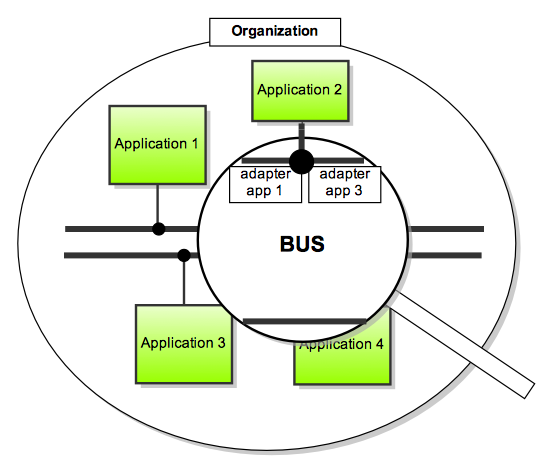
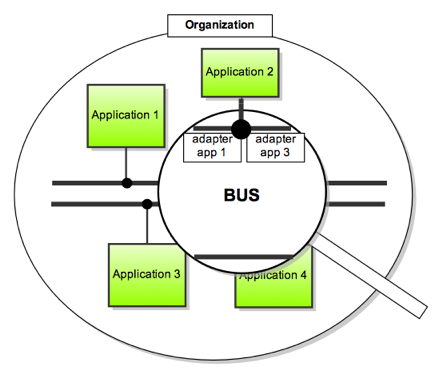
cosmetic fixes

diff --git a/build/presentation.html b/build/presentation.html
@@ -6,7 +6,7 @@
     <title>Architectures for Distributed Applications</title>
     <meta http-equiv="Content-Type" content="text/html; charset=utf-8" />
     <meta name="copyright" content="Copyright &#169; 2010 INRIA - Rennes Bretagne Atlantique" />
-    <meta name="font-size-adjustment" content="0" />
+    <meta name="font-size-adjustment" content="+1" />
     <link rel="stylesheet" href="assets/stylesheets/slidy.css" type="text/css" media="screen, projection, print" />
     <link rel="stylesheet" href="assets/stylesheets/custom.css" type="text/css" media="screen, projection, print" />
     <link rel="stylesheet" href="assets/stylesheets/shCore.css" type="text/css" media="screen, projection, print" />
@@ -33,7 +33,7 @@
 
 <p class='subhead'>Styles, Technologies and Applications</p>
 
-<p>Cyril Rohr (IRISA - Equipe Myriads)<br />Feb 4, 2010</p></div>
+<p>Cyril Rohr (IRISA - Equipe Myriads)<br />Feb 11, 2010</p></div>
 <div class="slide title"><h1 id='agenda'>Agenda</h1>
 
 <ol class='incremental'>
@@ -68,24 +68,24 @@
 
 <li>duplication, high maintenance cost, no data sharing</li>
 </ul></div>
-<div class="slide center title"><h1 id='2_evolution_towards_distributed_applications'>2. Evolution towards Distributed Applications</h1>
+<div class="slide center"><h1 id='2_evolution_towards_distributed_applications'>2. Evolution towards Distributed Applications</h1>
 
 <ul class='incremental'>
 <li><strong>Applications sharing data</strong><br /><img src='images/applications-sharing-data.png' style='margin: 5px' /></li>
 
 <li>fragile, duplication</li>
 </ul></div>
-<div class="slide center title"><h1 id='2_evolution_towards_distributed_applications'>2. Evolution towards Distributed Applications</h1>
+<div class="slide center"><h1 id='2_evolution_towards_distributed_applications'>2. Evolution towards Distributed Applications</h1>
 
 <ul class='incremental'>
-<li><strong>Applications sharing objects over the network</strong> <br /><div class='incremental' style='clear: both'>
+<li><strong>Applications sharing objects over the network</strong> <br /><div class='incremental center' style='clear: both; margin: auto;'>
   <img src='images/applications-bus.png' style='float:left' />
   <img src='images/applications-bus-enlarged.png' style='float:left' />
 </div> <br /><div style='clear: both' /></li>
 
 <li>complex, vendor lock in, tight coupling</li>
 </ul></div>
-<div class="slide center title"><h1 id='2_evolution_towards_distributed_applications'>2. Evolution towards Distributed Applications</h1>
+<div class="slide center"><h1 id='2_evolution_towards_distributed_applications'>2. Evolution towards Distributed Applications</h1>
 
 <ul class='incremental'>
 <li><strong>Service Oriented Architectures</strong> <br /><img src='images/soa.png' /></li>
@@ -227,7 +227,7 @@
 </ul></div>
 <div class="slide incremental"><h1 id='5b_message_oriented_architecture__drawbacks'>5B. Message Oriented Architecture - drawbacks</h1>
 
-<p>Complex, ever-changing specification <br /><img src='images/ws-graph.png' height='335' width='500' style='margin: 5px' /> <br />WS-Security, WS-Policy, WS-SecurityPolicy, WS-PolicyAssertions, WS-PolicyAttachment, WS-Trust, WS-Privacy, WS-Routing, WS-Referral, WS-Coordination, WS-Transaction, WS-SecureConversation, WS-Federation, WS-Authorization, WS-Attachments, WS-Transfer, WS-ResourceTransfer, WS-ReliableMessaging, WS-Addressing, &#8230;</p></div>
+<p>Complex, ever-changing specification <br /><img src='images/ws-graph.png' style='margin: 5px' /> <br />WS-Security, WS-Policy, WS-SecurityPolicy, WS-PolicyAssertions, WS-PolicyAttachment, WS-Trust, WS-Privacy, WS-Routing, WS-Referral, WS-Coordination, WS-Transaction, WS-SecureConversation, WS-Federation, WS-Authorization, WS-Attachments, WS-Transfer, WS-ResourceTransfer, WS-ReliableMessaging, WS-Addressing, &#8230;</p></div>
 <div class="slide incremental"><h1 id='5b_message_oriented_architecture__drawbacks'>5B. Message Oriented Architecture - drawbacks</h1>
 
 <ul class='incremental'>
@@ -235,7 +235,7 @@
 
 <li>Poor interoperability between vendor implementations, leading to vendor lock-in</li>
 
-<li>Most often, developers use early binding =&gt; stubs, proxy objects =&gt; tight-coupling <img src='images/soap.png' height='70%' style='float: right;' width='70%' /></li>
+<li>Most often, developers use early binding =&gt; stubs, proxy objects =&gt; tight-coupling <img src='images/soap.png' style='float: right;' /></li>
 
 <li>Poor scalability: requires processing power to decode SOAP messages, difficult to load-balance or route requests based on the service endpoint (URI)</li>
 
@@ -456,7 +456,7 @@
 </ul>
 </li>
 </ul></div>
-<div class="slide title"><h1 id='5c_restful_services__client_side_code'>5C. <strong>RESTful</strong> Services - Client Side Code</h1>
+<div class="slide"><h1 id='5c_restful_services__client_side_code'>5C. <strong>RESTful</strong> Services - Client Side Code</h1>
 
 <ul>
 <li>
@@ -540,7 +540,7 @@
   }</pre>
 </li>
 </ul></div>
-<div class="slide title"><h1 id='5c_restful_services__server_side_code'>5C. <strong>RESTful</strong> Services - Server Side Code</h1>
+<div class="slide"><h1 id='5c_restful_services__server_side_code'>5C. <strong>RESTful</strong> Services - Server Side Code</h1>
 
 <pre class='brush: ruby'>require &#39;rubygems&#39;
 require &#39;sinatra/base&#39;  # gem install sinatra
@@ -558,10 +558,10 @@ class API &lt; Sinatra::Base
   delete      &#39;/URI&#39;   { do_something }
   
 end
-API.run! :host =&gt; &quot;localhost&quot;, :port =&gt; 4567</pre>
-
-<p>See http://github.com/crohr/rest-presentation/app for a complete application.</p></div>
+API.run! :host =&gt; &quot;localhost&quot;, :port =&gt; 4567</pre></div>
 <div class="slide incremental"><h1 id='5c_restful_services__hal'>5C. <strong>RESTful</strong> Services - HAL</h1>
+
+<p>Library of scientific publications.</p>
 
 <h2 id='specification'>Specification</h2>
 
@@ -569,32 +569,49 @@ API.run! :host =&gt; &quot;localhost&quot;, :port =&gt; 4567</pre>
 <li>
 <p>authors</p>
 
-<pre>  GET     /authors?affiliations=x,y,z  fetch the list of authors,              json         200,304,406,500
-                                       optionally filtered by affiliations     
-  POST    /authors                     create a new author                     json         201,400,406,415,500
-  DELETE  /authors/:author_id          delete the author                                    204,500
-  PUT     /authors/:author_id          update an author                        json         200,400,406,415,500</pre>
+<pre>  METHOD  URI,MEDIA-TYPES,CODES        DESCRIPTION               
+  GET     /authors?affiliations=x,y,z  fetch the list of authors,              
+          json                            optionally filtered by affiliations     
+          200,304,406,500                                       
+  POST    /authors                     create a new author                              
+          json
+          201,400,406,415,500  
+  DELETE  /authors/:author_id          delete the author                                    
+          204,500
+  PUT     /authors/:author_id          update an author                        
+          json         
+          200,400,406,415,500</pre>
 </li>
 
 <li>
 <p>papers</p>
 
-<pre>  GET     /papers?tags=x,y,z           fetch the list of papers,               json         200,304,406,500
-                                       optionally filtered by tags
-  POST    /papers                      create a new paper                      json         201,400,406,415,500
-  DELETE  /papers/:paper_id            delete the paper                                     204,500
-  PUT     /papers/:paper_id            update a paper. deal with conflicts.    json,text,   200,400,406,415,500
-                                                                               html,pdf,
-                                                                               latex</pre>
+<pre>  GET     /papers?tags=x,y,z           fetch the list of papers,               
+          json                            optionally filtered by tags
+          200,304,406,500
+  POST    /papers                      create a new paper                      
+          json         
+          201,400,406,415,500
+  DELETE  /papers/:paper_id            delete the paper                                     
+          204,500
+  PUT     /papers/:paper_id            update a paper. deal with conflicts.    
+          json,text,html,pdf,latex   
+          200,400,406,415,500</pre>
 </li>
 
 <li>
 <p>convenience collections</p>
 
-<pre>  GET     /authors/:author_id/papers   fetch the papers of a specific author   json
-  GET     /papers/:paper_id/authors    fetch the authors of a specific paper   json</pre>
+<pre>  GET     /authors/:author_id/papers   fetch the papers of a specific author   
+          json
+  GET     /papers/:paper_id/authors    fetch the authors of a specific paper   
+          json</pre>
 </li>
-</ul></div>
+</ul>
+
+<h2 id='implementation'>Implementation</h2>
+
+<p>See <a href='http://github.com/crohr/rest-presentation/tree/master/app/'>http://github.com/crohr/rest-presentation/tree/master/app</a> for the implementation.</p></div>
 <div class="slide incremental"><h1 id='6_restful_services__realworld_examples__grid5000'>6. <strong>RESTful</strong> Services - Real-World examples - Grid5000</h1>
 <img src='images/grid5000.png' height='80%' style='float:left' width='70%' /></div>
 <div class="slide incremental"><h1 id='6_restful_services__realworld_examples__in_the_wild'>6. <strong>RESTful</strong> Services - Real-World examples - In the wild</h1>

diff --git a/assets/stylesheets/slidy.css b/assets/stylesheets/slidy.css
@@ -77,7 +77,7 @@ div.slide + div[class].slide { page-break-before: always;}
 
 div.slide h1 {
   display: block; 
-  font-size: 160%;
+  font-size: 140%;
   line-height: 1.2em;
   background: transparent;
   min-height: 2.0em;
@@ -199,7 +199,7 @@ p,pre,ul,ol,blockquote,h2,h3,h4,h5,h6,dl,table {
   margin-right: 1em;
 }
 
-p.subhead { font-weight: bold; margin-top: 2em; font-size: 2em; line-height: 2em; }
+p.subhead { font-weight: bold; margin-top: 2em; margin-bottom: 1em; font-size: 1.5em; line-height: 2em; }
 
 .smaller { font-size: smaller }
 .bigger { font-size: 130% }

diff --git a/build/assets/stylesheets/slidy.css b/build/assets/stylesheets/slidy.css
@@ -77,7 +77,7 @@ div.slide + div[class].slide { page-break-before: always;}
 
 div.slide h1 {
   display: block; 
-  font-size: 160%;
+  font-size: 140%;
   line-height: 1.2em;
   background: transparent;
   min-height: 2.0em;
@@ -199,7 +199,7 @@ p,pre,ul,ol,blockquote,h2,h3,h4,h5,h6,dl,table {
   margin-right: 1em;
 }
 
-p.subhead { font-weight: bold; margin-top: 2em; font-size: 2em; line-height: 2em; }
+p.subhead { font-weight: bold; margin-top: 2em; margin-bottom: 1em; font-size: 1.5em; line-height: 2em; }
 
 .smaller { font-size: smaller }
 .bigger { font-size: 130% }

diff --git a/slides/presentation.md b/slides/presentation.md
@@ -6,7 +6,7 @@ Styles, Technologies and Applications
 {:class="subhead"}
 
 Cyril Rohr (IRISA - Equipe Myriads)  
-Feb 4, 2010
+Feb 11, 2010
 
 <!-- slide title -->
 # Agenda
@@ -43,17 +43,17 @@ Integration across organizational boundaries
 * duplication, high maintenance cost, no data sharing  
 {:class="incremental"}
 
-<!-- slide center title -->
+<!-- slide center -->
 # 2. Evolution towards Distributed Applications
 * **Applications sharing data**  
   <img src="images/applications-sharing-data.png" style="margin: 5px" />    
 * fragile, duplication   
 {:class="incremental"}
 
-<!-- slide center title -->
+<!-- slide center -->
 # 2. Evolution towards Distributed Applications
 * **Applications sharing objects over the network**   
-  <div class="incremental" style="clear: both">
+  <div class="incremental center" style="clear: both; margin: auto;">
     <img src="images/applications-bus.png" style="float:left" />
     <img src="images/applications-bus-enlarged.png" style="float:left" />
   </div>    
@@ -61,7 +61,7 @@ Integration across organizational boundaries
 * complex, vendor lock in, tight coupling 
 {:class="incremental"}
 
-<!-- slide center title -->
+<!-- slide center -->
 # 2. Evolution towards Distributed Applications
 * **Service Oriented Architectures**    
   <img src="images/soa.png" />   
@@ -187,7 +187,7 @@ Java method:
 <!-- slide incremental -->
 # 5B. Message Oriented Architecture - drawbacks
 Complex, ever-changing specification    
-<img src="images/ws-graph.png" width="500" height="335" style="margin: 5px" />    
+<img src="images/ws-graph.png" style="margin: 5px" />    
 WS-Security, WS-Policy, WS-SecurityPolicy, WS-PolicyAssertions, WS-PolicyAttachment, WS-Trust, WS-Privacy, WS-Routing, WS-Referral, WS-Coordination, WS-Transaction, WS-SecureConversation, WS-Federation, WS-Authorization, WS-Attachments, WS-Transfer, WS-ResourceTransfer, WS-ReliableMessaging, WS-Addressing, ...
 
 <!-- slide incremental -->
@@ -195,7 +195,7 @@ WS-Security, WS-Policy, WS-SecurityPolicy, WS-PolicyAssertions, WS-PolicyAttachm
 * Specification written and pushed by big vendors (IBM, Microsoft, HP, Intel, SAP, Sun, etc.)
 * Poor interoperability between vendor implementations, leading to vendor lock-in
 * Most often, developers use early binding => stubs, proxy objects => tight-coupling
-  <img src="images/soap.png" style="float: right;" height="70%" width="70%" />
+  <img src="images/soap.png" style="float: right;" />
 * Poor scalability: requires processing power to decode SOAP messages, difficult to load-balance or route requests based on the service endpoint (URI)
 * UDDI is a failure
 * Does not use HTTP as an application protocol, only as a transport protocol.
@@ -344,7 +344,7 @@ All resources share the same interface for transfering state between the client 
   {:class="incremental"}
 {:class="incremental"}
 
-<!-- slide title -->
+<!-- slide -->
 # 5C. **RESTful** Services - Client Side Code
 
 * Ruby
@@ -422,7 +422,7 @@ All resources share the same interface for transfering state between the client 
         }
     {:class="brush: js; collapse: false; highlight: [1,3,4,5,6,7,8,9,10,11,17,42]"}
 
-<!-- slide title -->
+<!-- slide -->
 # 5C. **RESTful** Services - Server Side Code
 
     require 'rubygems'
@@ -444,33 +444,50 @@ All resources share the same interface for transfering state between the client 
     API.run! :host => "localhost", :port => 4567
   {:class="brush: ruby"}
 
-See http://github.com/crohr/rest-presentation/app for a complete application.
-
 
 <!-- slide incremental -->
 # 5C. **RESTful** Services - HAL
+Library of scientific publications.
+
 ## Specification
 * authors
 
-        GET     /authors?affiliations=x,y,z  fetch the list of authors,              json         200,304,406,500
-                                             optionally filtered by affiliations     
-        POST    /authors                     create a new author                     json         201,400,406,415,500
-        DELETE  /authors/:author_id          delete the author                                    204,500
-        PUT     /authors/:author_id          update an author                        json         200,400,406,415,500
+        METHOD  URI,MEDIA-TYPES,CODES        DESCRIPTION               
+        GET     /authors?affiliations=x,y,z  fetch the list of authors,              
+                json                            optionally filtered by affiliations     
+                200,304,406,500                                       
+        POST    /authors                     create a new author                              
+                json
+                201,400,406,415,500  
+        DELETE  /authors/:author_id          delete the author                                    
+                204,500
+        PUT     /authors/:author_id          update an author                        
+                json         
+                200,400,406,415,500
 * papers                                     
                                              
-        GET     /papers?tags=x,y,z           fetch the list of papers,               json         200,304,406,500
-                                             optionally filtered by tags
-        POST    /papers                      create a new paper                      json         201,400,406,415,500
-        DELETE  /papers/:paper_id            delete the paper                                     204,500
-        PUT     /papers/:paper_id            update a paper. deal with conflicts.    json,text,   200,400,406,415,500
-                                                                                     html,pdf,
-                                                                                     latex
+        GET     /papers?tags=x,y,z           fetch the list of papers,               
+                json                            optionally filtered by tags
+                200,304,406,500
+        POST    /papers                      create a new paper                      
+                json         
+                201,400,406,415,500
+        DELETE  /papers/:paper_id            delete the paper                                     
+                204,500
+        PUT     /papers/:paper_id            update a paper. deal with conflicts.    
+                json,text,html,pdf,latex   
+                200,400,406,415,500
+                                                                                     
+                                                                                     
 * convenience collections                    
                                              
-        GET     /authors/:author_id/papers   fetch the papers of a specific author   json
-        GET     /papers/:paper_id/authors    fetch the authors of a specific paper   json
+        GET     /authors/:author_id/papers   fetch the papers of a specific author   
+                json
+        GET     /papers/:paper_id/authors    fetch the authors of a specific paper   
+                json
 
+## Implementation
+See [http://github.com/crohr/rest-presentation/tree/master/app](http://github.com/crohr/rest-presentation/tree/master/app/) for the implementation.
 
 <!-- slide incremental -->
 # 6. **RESTful** Services - Real-World examples - Grid5000
